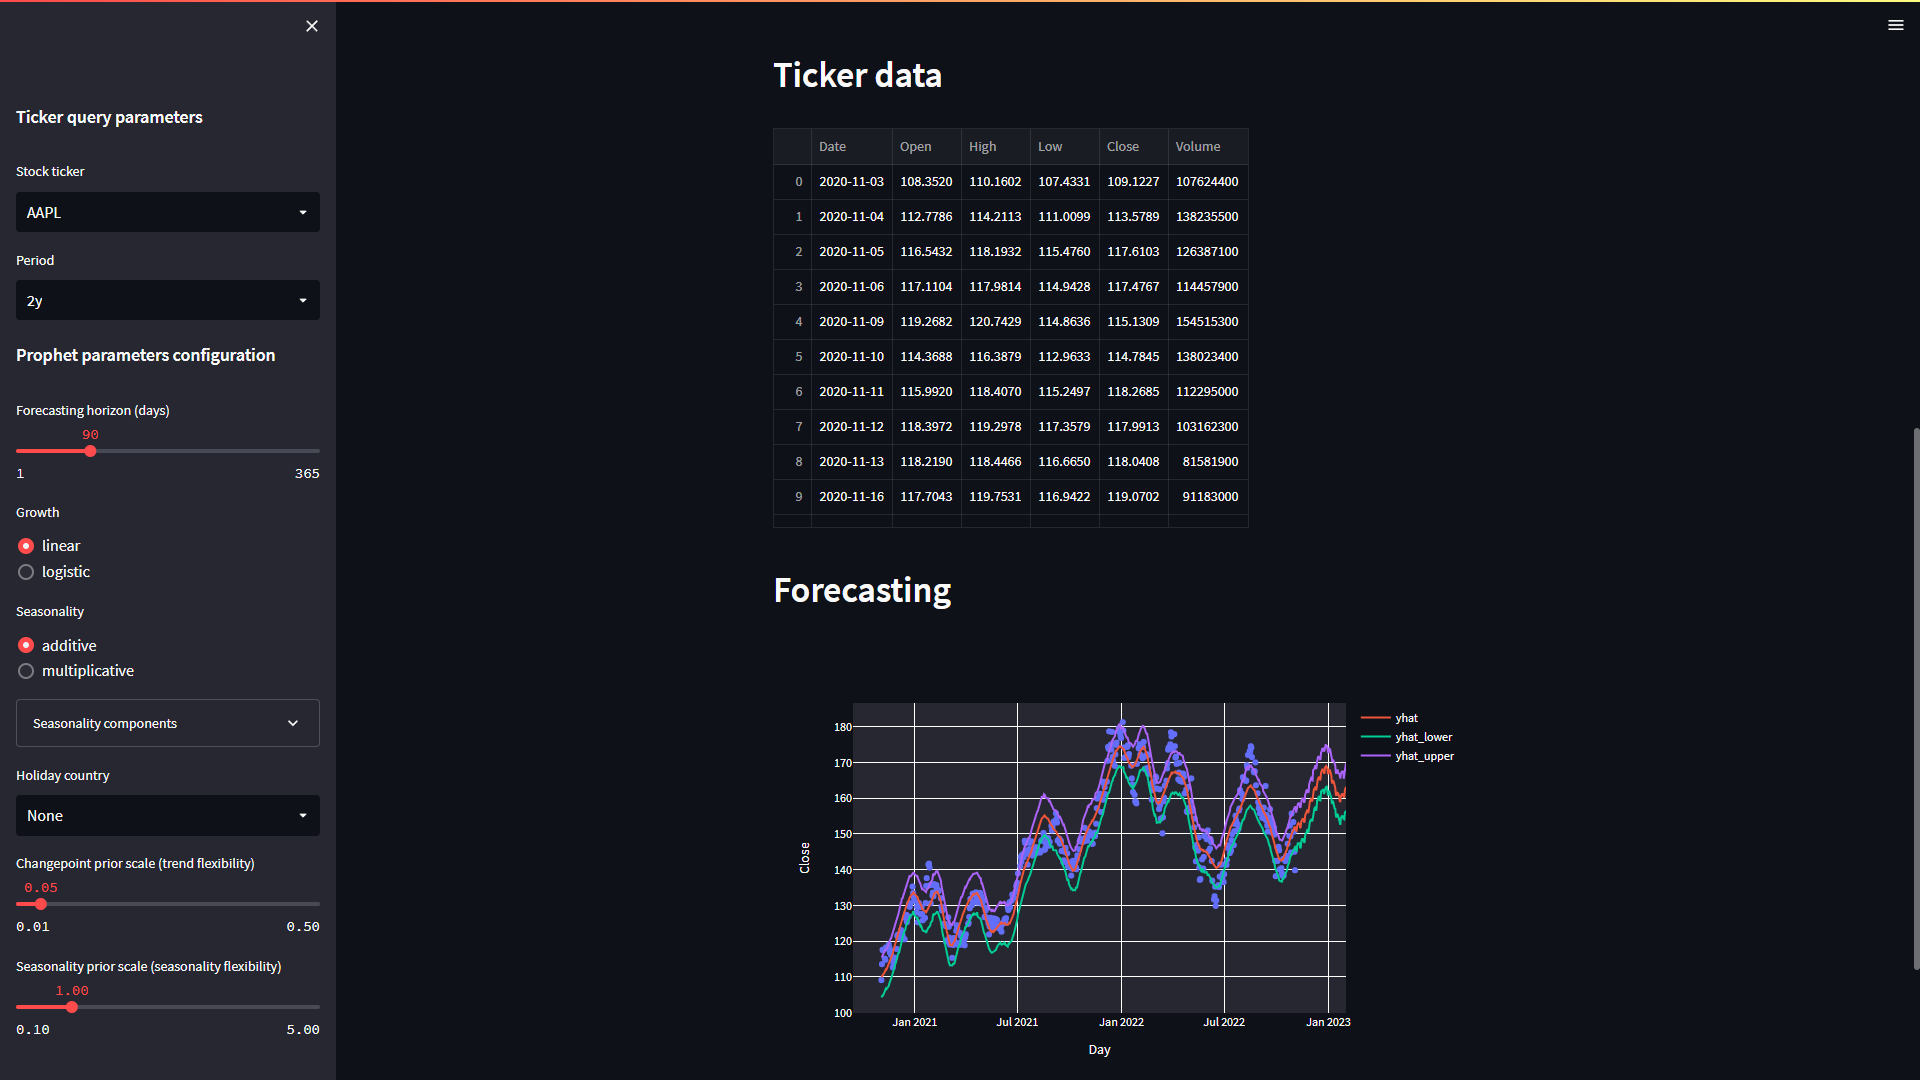
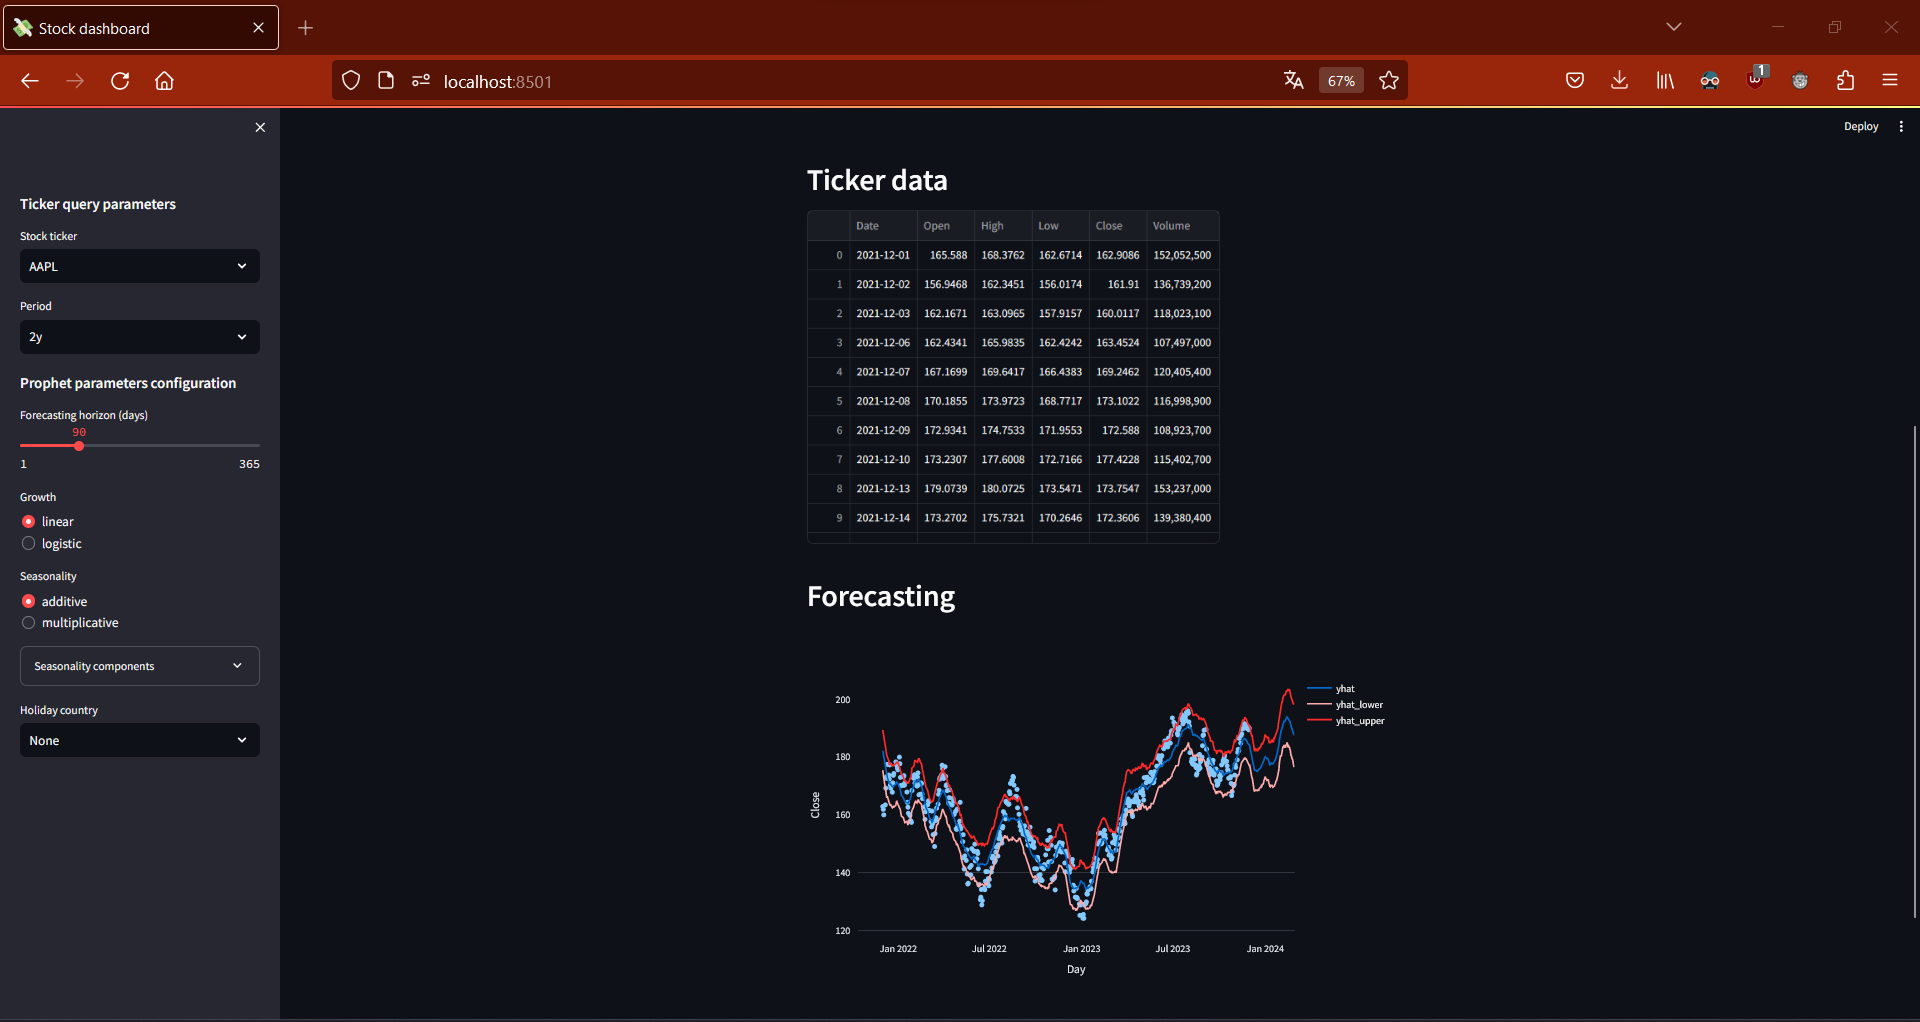
Removed Streamlit Cloud link and updated screenshot

Changed region(s): [[0.0, 0.0, 1.0, 1.0], [0.4062, 0.637, 0.75, 0.9706]]

diff --git a/README.MD b/README.MD
@@ -15,7 +15,3 @@ streamlit run app.py
 ## Screenshot
 
 ![Demo screenshot](/assets/screen.png)
-
-## Demo
-
-You can check out the Streamlit Cloud hosted version [here](https://uzarel-stock-prices-forecasting-webapp-app-i32st1.streamlit.app/).
